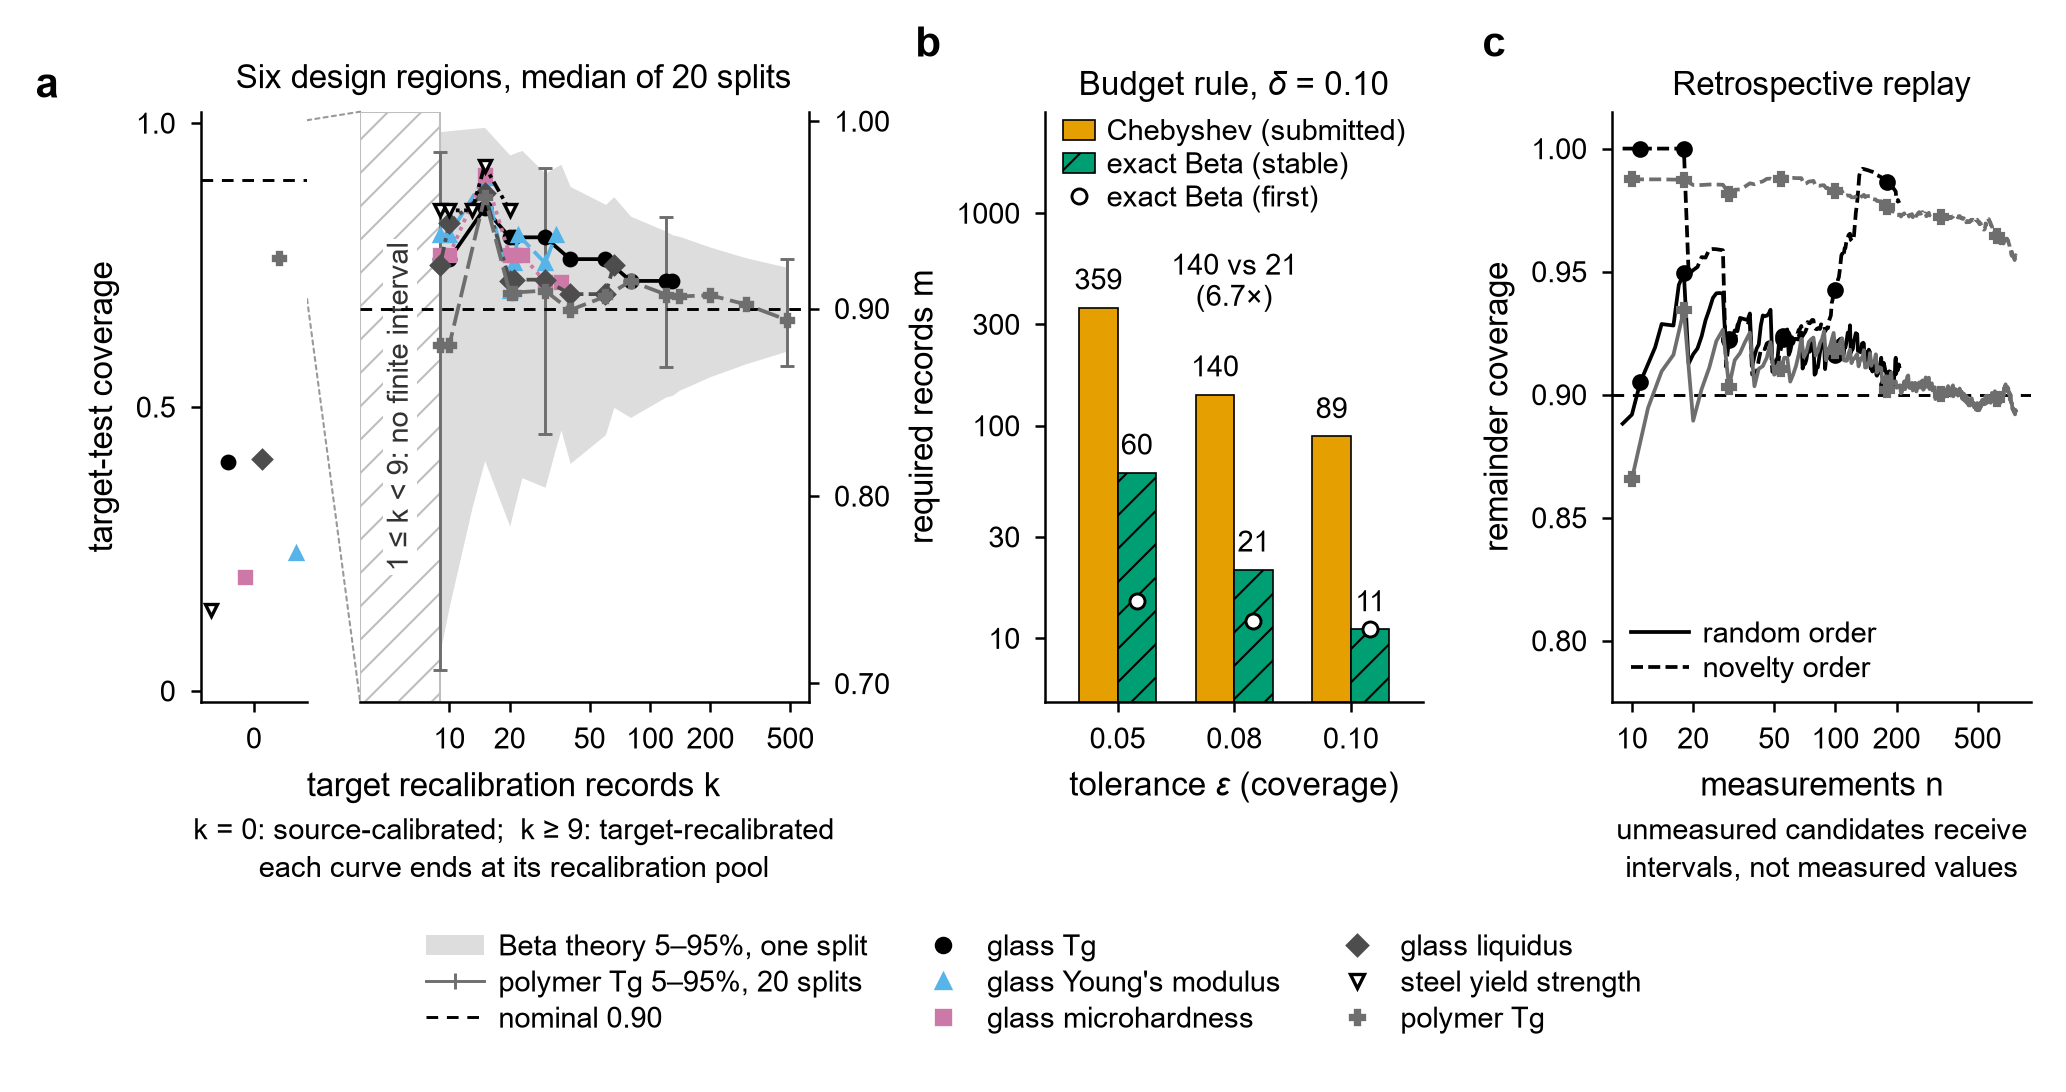
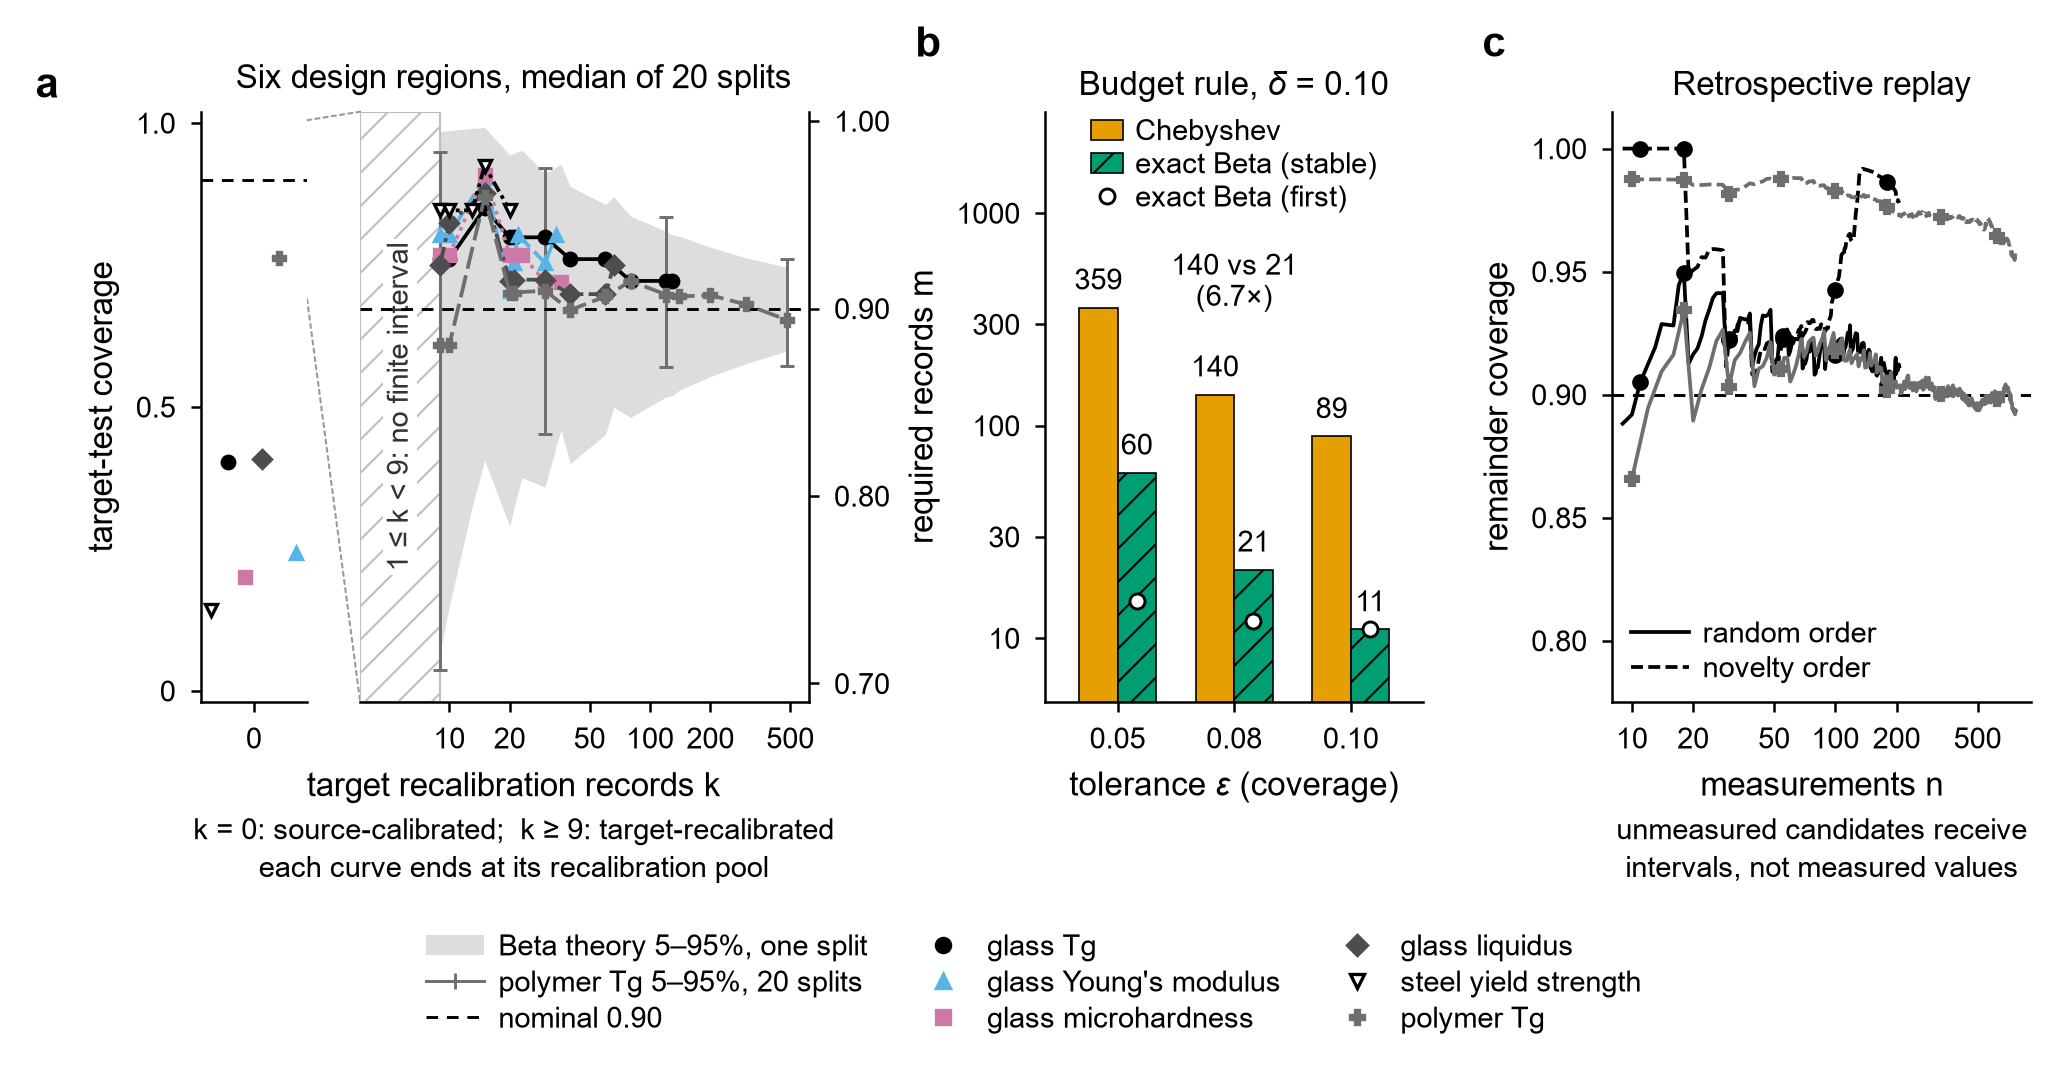
Fig 9: drop '(submitted)' from legend; add human-validation kit script for the survey coding

Changed region(s): [[0.4956, 0.0934, 0.6815, 0.1868]]

diff --git a/survey/s08_human_validation_kit.py b/survey/s08_human_validation_kit.py
@@ -1,0 +1,102 @@
+"""Human-validation kit for the LLM-coded survey (the check the manuscript says was not done).
+
+    python s08_human_validation_kit.py make      # writes validation/ (rater sheet, key, codebook)
+    python s08_human_validation_kit.py score validation/rater_filled.csv
+
+make   draws 30 of the 153 unique papers with a fixed seed: every paper with U >= 2 or E1 (rare
+       positives, otherwise kappa is undefined), then S1-positive and EP-positive papers to reach
+       18 positives, then 12 random papers coded 0 on those items. Positives are over-sampled on
+       purpose, so the resulting agreement describes the coding of rare items, not the survey's
+       prevalences; both raw agreement and Cohen's kappa are reported by ``score``.
+score  compares a human-filled sheet with the (hidden) LLM key: raw agreement, Cohen's kappa,
+       PABAK and positive/negative specific agreement per item.
+"""
+import csv
+import os
+import random
+import re
+import sys
+
+HERE = os.path.dirname(os.path.abspath(__file__))
+OUT = os.path.join(HERE, "validation")
+ITEMS = ["U", "E", "EP", "S"]
+SEED = 20260926
+
+
+def load():
+    rows = list(csv.DictReader(open(os.path.join(HERE, "survey_coded_papers.csv"), encoding="utf-8")))
+    seen, uniq = set(), []
+    for r in rows:                       # a paper coded in two areas keeps its first row
+        if r["pmcid"] not in seen:
+            seen.add(r["pmcid"]); uniq.append(r)
+    return uniq
+
+
+def codebook():
+    """The frozen protocol's own definitions (audit/A6_survey_protocol.md), verbatim."""
+    txt = open(os.path.join(HERE, "..", "audit", "A6_survey_protocol.md"), encoding="utf-8").read().splitlines()
+    tab = [ln for ln in txt if re.match(r"\| \*\*(U0|U1|U2|U3|E0|E1|EP|S0|S1)\*\*", ln)]
+    head = ("# Coding sheet instructions\n\nFor each paper, read the full text (open access, link in the sheet) and "
+            "fill the six code columns (U_ge1, U_ge2, U3, E1, EP, S1) with 0 or 1. Do not look at the key file.\n\n"
+            "* `U_ge1` = 1 if the paper reports any uncertainty (code U1, U2 or U3 below)\n"
+            "* `U_ge2` = 1 if U2 or U3; `U3` = 1 if U3\n* `E1`, `EP`, `S1` as defined below\n\n"
+            "| Code | Definition | Counts | Does not count |\n|---|---|---|---|\n")
+    return head + "\n".join(tab) + "\n"
+
+
+def make():
+    os.makedirs(OUT, exist_ok=True)
+    rng = random.Random(SEED)
+    P = load()
+    take = []
+    def add(pool, k):
+        pool = [p for p in pool if p not in take]
+        rng.shuffle(pool)
+        take.extend(pool[:k])
+    add([p for p in P if int(p["U"]) >= 2 or p["E"] == "1"], 18)
+    add([p for p in P if p["S"] == "1"], 18 - len(take))
+    add([p for p in P if p["EP"] == "1"], 18 - len(take))
+    add([p for p in P if int(p["U"]) == 0 and p["E"] == "0" and p["S"] == "0" and p["EP"] == "0"], 30 - len(take))
+    rng.shuffle(take)
+    with open(os.path.join(OUT, "rater_sheet.csv"), "w", newline="", encoding="utf-8-sig") as f:
+        w = csv.writer(f)
+        w.writerow(["id", "area", "pmcid", "link", "title", "U_ge1", "U_ge2", "U3", "E1", "EP", "S1", "note"])
+        for i, p in enumerate(take, 1):
+            w.writerow([i, p["area"], p["pmcid"], f"https://pmc.ncbi.nlm.nih.gov/articles/{p['pmcid']}/",
+                        p["title"], "", "", "", "", "", "", ""])
+    with open(os.path.join(OUT, "llm_key_DO_NOT_SHARE_WITH_RATER.csv"), "w", newline="", encoding="utf-8") as f:
+        w = csv.writer(f)
+        w.writerow(["id", "pmcid", "U_ge1", "U_ge2", "U3", "E1", "EP", "S1"])
+        for i, p in enumerate(take, 1):
+            u = int(p["U"])
+            w.writerow([i, p["pmcid"], int(u >= 1), int(u >= 2), int(u >= 3), p["E"], p["EP"], p["S"]])
+    open(os.path.join(OUT, "CODEBOOK.md"), "w", encoding="utf-8").write(codebook())
+    print(f"{len(take)} papers -> {OUT}")
+
+
+def kappa_stats(a, b):
+    n = len(a)
+    tp = sum(x == y == 1 for x, y in zip(a, b)); tn = sum(x == y == 0 for x, y in zip(a, b))
+    fp = sum(x == 0 and y == 1 for x, y in zip(a, b)); fn = sum(x == 1 and y == 0 for x, y in zip(a, b))
+    po = (tp + tn) / n
+    pe = ((tp + fn) * (tp + fp) + (tn + fp) * (tn + fn)) / n ** 2
+    kap = (po - pe) / (1 - pe) if pe < 1 else float("nan")
+    return dict(n=n, agree=po, kappa=kap, pabak=2 * po - 1,
+                pos_agree=2 * tp / (2 * tp + fp + fn) if (2 * tp + fp + fn) else float("nan"),
+                neg_agree=2 * tn / (2 * tn + fp + fn) if (2 * tn + fp + fn) else float("nan"),
+                llm_pos=tp + fp, human_pos=tp + fn)
+
+
+def score(path):
+    key = {r["id"]: r for r in csv.DictReader(open(os.path.join(OUT, "llm_key_DO_NOT_SHARE_WITH_RATER.csv"), encoding="utf-8"))}
+    hum = {r["id"]: r for r in csv.DictReader(open(path, encoding="utf-8-sig"))}
+    print(f"{'item':6} {'n':>3} {'agree':>6} {'kappa':>6} {'PABAK':>6} {'pos.ag':>6} {'neg.ag':>6}  llm+/human+")
+    for it in ["U_ge1", "U_ge2", "U3", "E1", "EP", "S1"]:
+        ids = [i for i in key if hum.get(i, {}).get(it, "").strip() in ("0", "1")]
+        s = kappa_stats([int(key[i][it]) for i in ids], [int(hum[i][it]) for i in ids])
+        print(f"{it:6} {s['n']:>3} {s['agree']:6.2f} {s['kappa']:6.2f} {s['pabak']:6.2f} "
+              f"{s['pos_agree']:6.2f} {s['neg_agree']:6.2f}  {s['llm_pos']}/{s['human_pos']}")
+
+
+if __name__ == "__main__":
+    make() if sys.argv[1:2] == ["make"] else score(sys.argv[2])

diff --git a/figures/fig9_budget.py b/figures/fig9_budget.py
@@ -207,7 +207,7 @@ axB.set_xlabel("tolerance " + r"$\epsilon$" + " (coverage)")
 axB.set_ylabel("required records m")
 axB.set_title("Budget rule, " + r"$\delta$" + " = 0.10", fontsize=8)
 axB.legend(handles=[Patch(facecolor=style.ROLE["heuristic"], edgecolor="black",
-                          lw=0.4, label="Chebyshev (submitted)"),
+                          lw=0.4, label="Chebyshev"),
                     Patch(facecolor=style.ROLE["recal"], edgecolor="black", lw=0.4,
                           hatch="///", label="exact Beta (stable)"),
                     Line2D([], [], ls="none", marker="o", ms=3.6, mfc="white",
